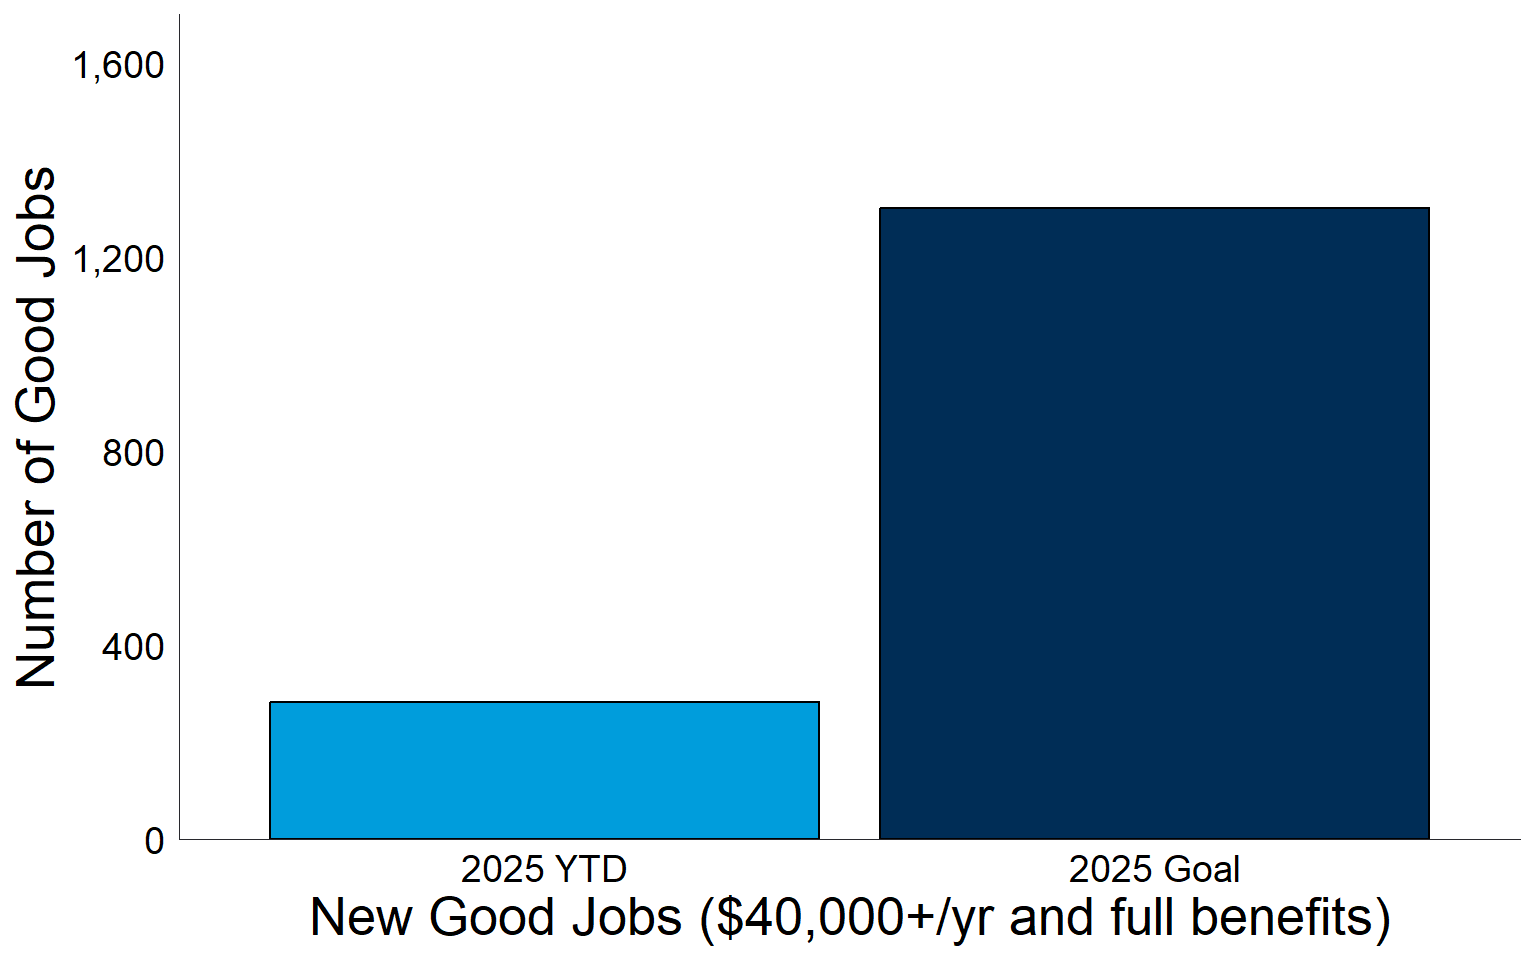
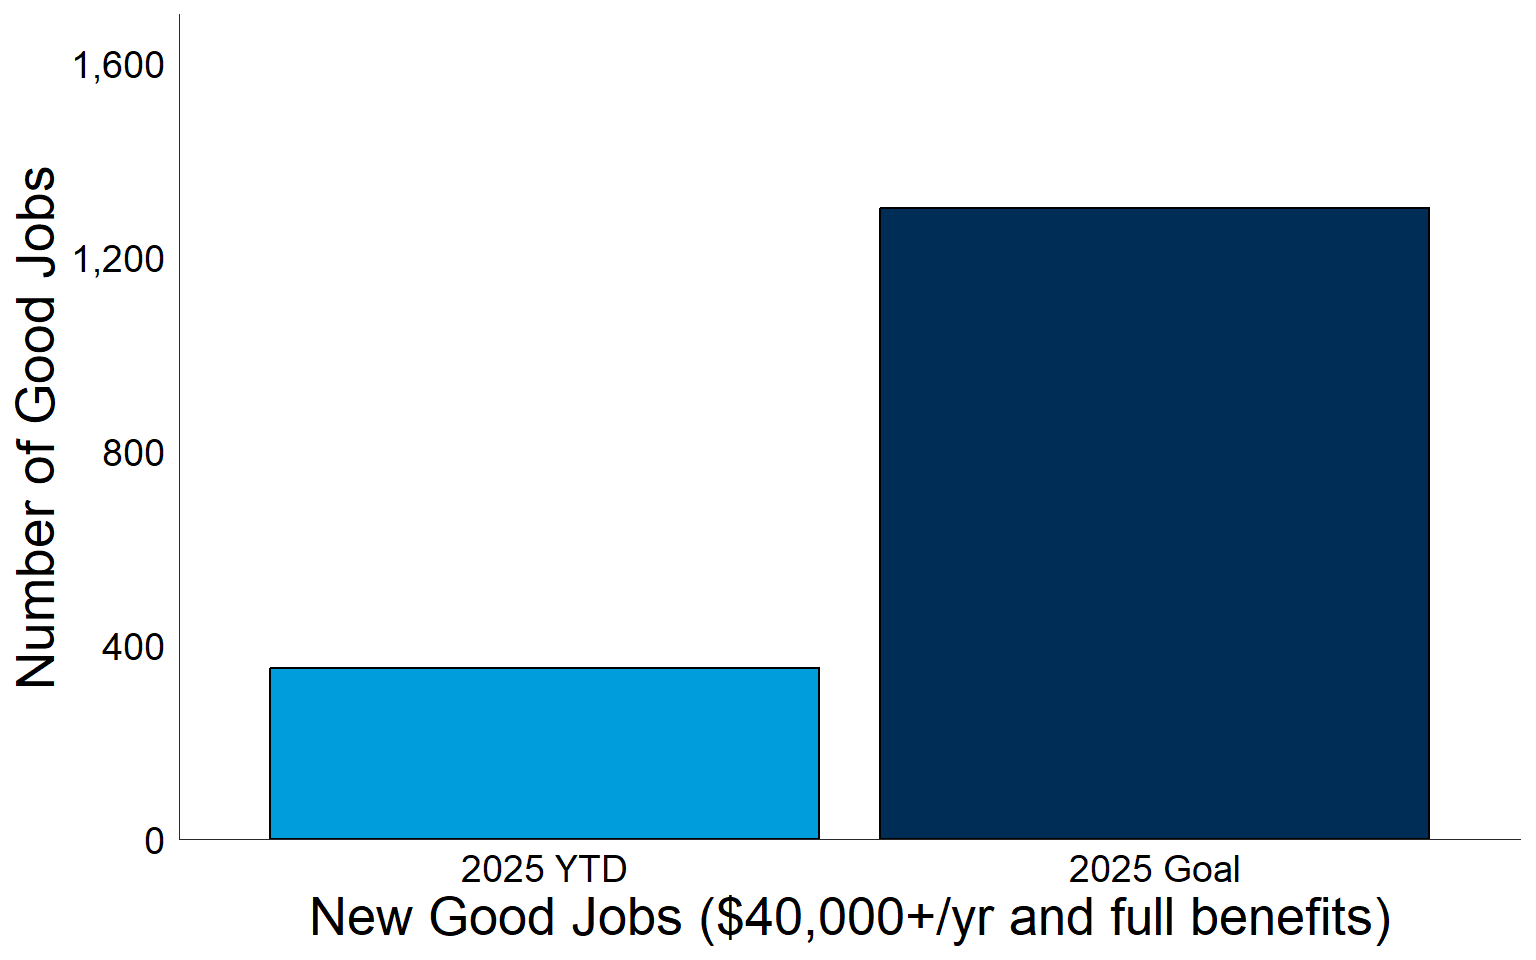
Built site for gh-pages

Changed region(s): [[0.1562, 0.6875, 0.5312, 0.75]]

diff --git a/index.html b/index.html
@@ -89,7 +89,7 @@ grid-auto-rows: minmax(0, 1fr);">
 Total Capital Invested Across All Programs
 </p>
 <p class="value-box-value">
-$762.9 million
+$774.4 million
 </p>
 </div>
 </div>
@@ -105,7 +105,7 @@ $762.9 million
 Total Economic Impact
 </p>
 <p class="value-box-value">
-$1.5 Billion
+$3.1 Billion
 </p>
 </div>
 </div>
@@ -121,7 +121,7 @@ $1.5 Billion
 Total Capital Invested in Disinvested Neighborhoods
 </p>
 <p class="value-box-value">
-5.7%
+12.8%
 </p>
 </div>
 </div>
@@ -193,7 +193,7 @@ grid-auto-rows: minmax(0, 1fr);">
 Direct Investment
 </p>
 <p class="value-box-value">
-$7.2 Million
+$7.4 Million
 </p>
 </div>
 </div>
@@ -209,7 +209,7 @@ $7.2 Million
 Small Businesses Funded (Grants and Loans)
 </p>
 <p class="value-box-value">
-31
+33
 </p>
 </div>
 </div>
@@ -225,7 +225,7 @@ Small Businesses Funded (Grants and Loans)
 Small Businesses Receiving Business Consulting Services
 </p>
 <p class="value-box-value">
-395
+412
 </p>
 </div>
 </div>
@@ -241,7 +241,7 @@ Small Businesses Receiving Business Consulting Services
 Small Business Funded in Disinvested Neighborhoods
 </p>
 <p class="value-box-value">
-35.5%
+36.3%
 </p>
 </div>
 </div>
@@ -327,7 +327,7 @@ $21.5 Million
 TAD Financing
 </p>
 <p class="value-box-value">
-$6.65 Million
+$6.9 Million
 </p>
 </div>
 </div>
@@ -343,7 +343,7 @@ $6.65 Million
 TAD Project Leveraged Capital
 </p>
 <p class="value-box-value">
-$200.7 Million
+$201 Million
 </p>
 </div>
 </div>
@@ -477,7 +477,7 @@ Affordable Units &lt;60% AMI
 Homeownership Incentives (Down Payment, Home Rehab)
 </p>
 <p class="value-box-value">
-139
+167
 </p>
 </div>
 </div>
@@ -547,7 +547,7 @@ grid-auto-rows: minmax(0, 1fr);">
 Total Capital Investment (Jobs &amp; Employment)
 </p>
 <p class="value-box-value">
-$322.8 Million
+$328.2 Million
 </p>
 </div>
 </div>
@@ -563,7 +563,7 @@ $322.8 Million
 Total Jobs Impact
 </p>
 <p class="value-box-value">
-2,161
+2,900
 </p>
 </div>
 </div>
@@ -579,7 +579,7 @@ Total Jobs Impact
 New Good Jobs Created
 </p>
 <p class="value-box-value">
-283
+353
 </p>
 </div>
 </div>
@@ -595,7 +595,7 @@ New Good Jobs Created
 Business Development Projects Closed
 </p>
 <p class="value-box-value">
-29
+34
 </p>
 </div>
 </div>
